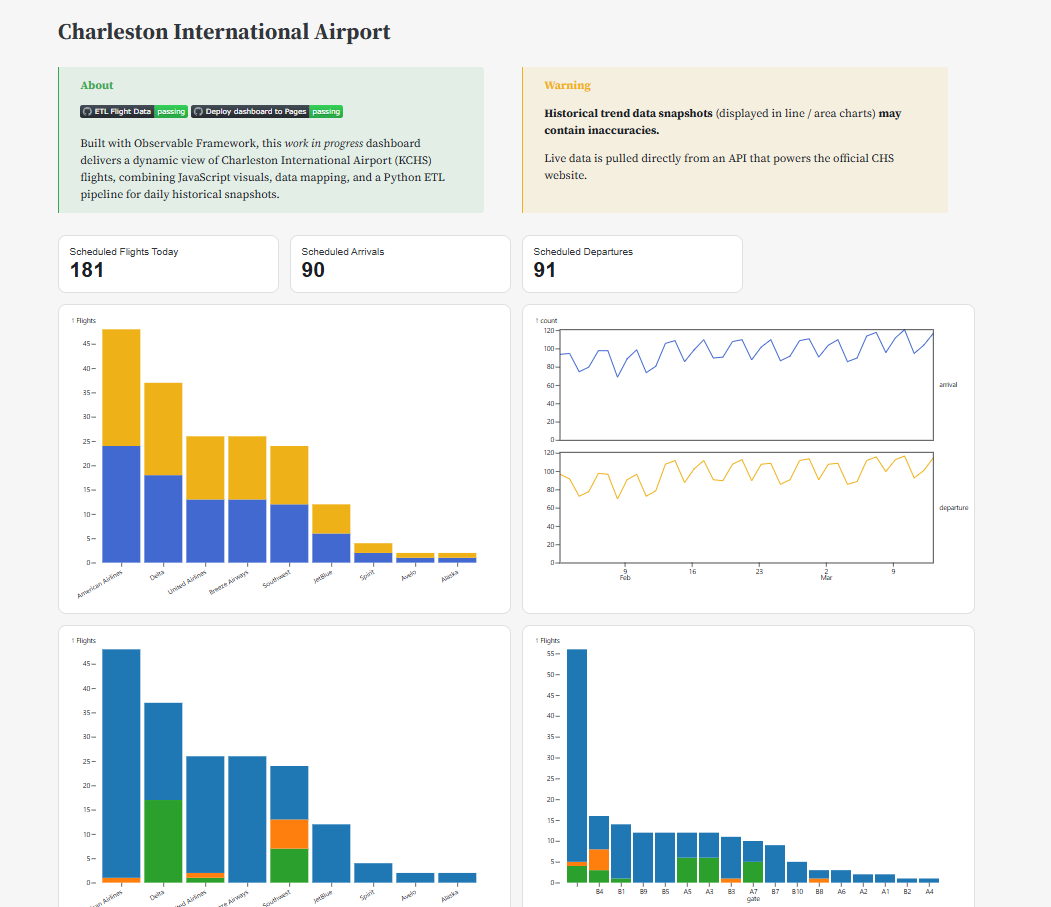
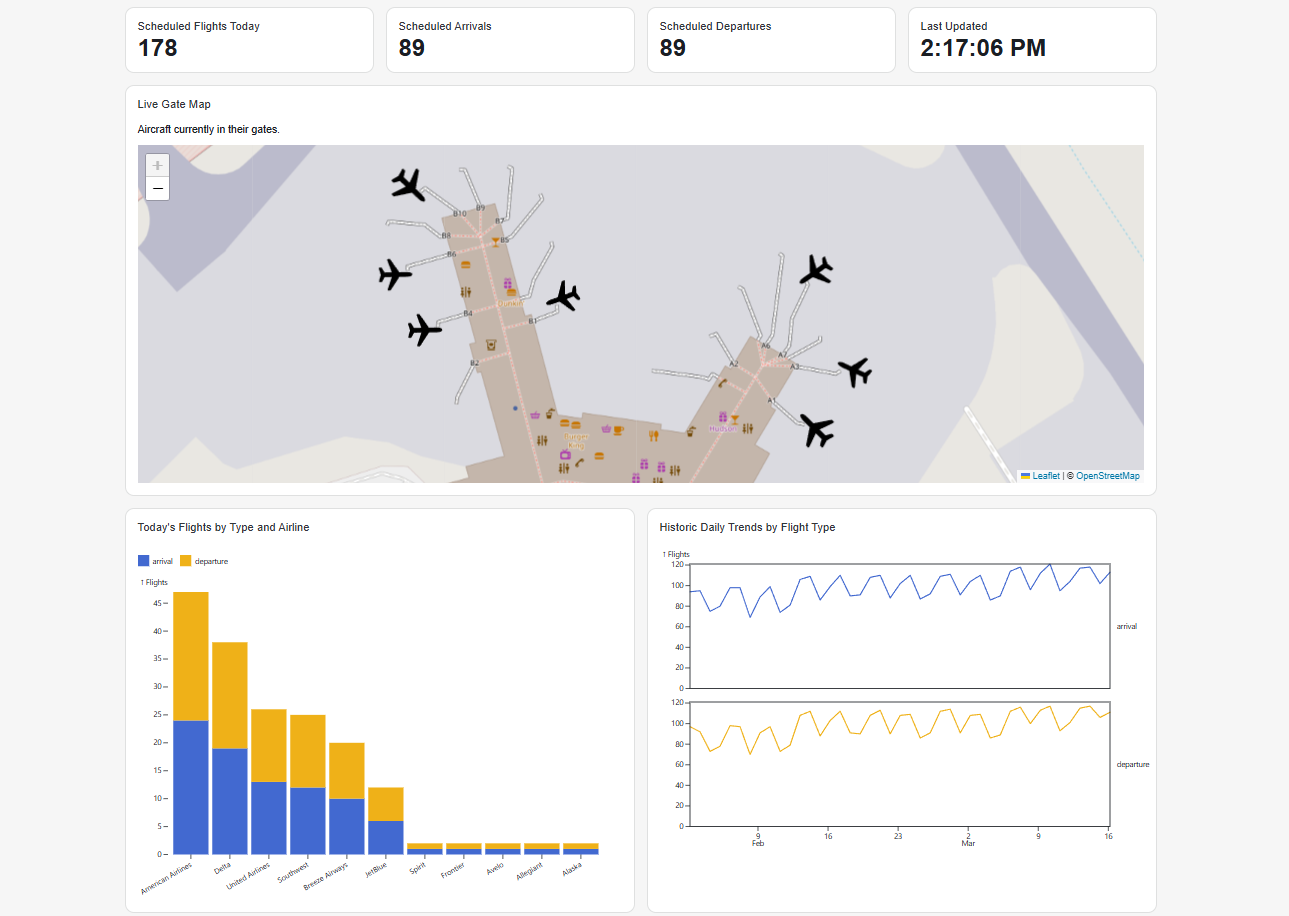
updated chs dashboard image

diff --git a/fordjohnson.dev/docs/photography/index.html b/fordjohnson.dev/docs/photography/index.html
@@ -590,7 +590,7 @@ window.document.addEventListener("DOMContentLoaded", function (event) {
     </div>
   </div>
 </footer>
-<script>var lightboxQuarto = GLightbox({"closeEffect":"zoom","loop":false,"selector":".lightbox","openEffect":"zoom","descPosition":"bottom"});
+<script>var lightboxQuarto = GLightbox({"descPosition":"bottom","loop":false,"selector":".lightbox","closeEffect":"zoom","openEffect":"zoom"});
 (function() {
   let previousOnload = window.onload;
   window.onload = () => {
